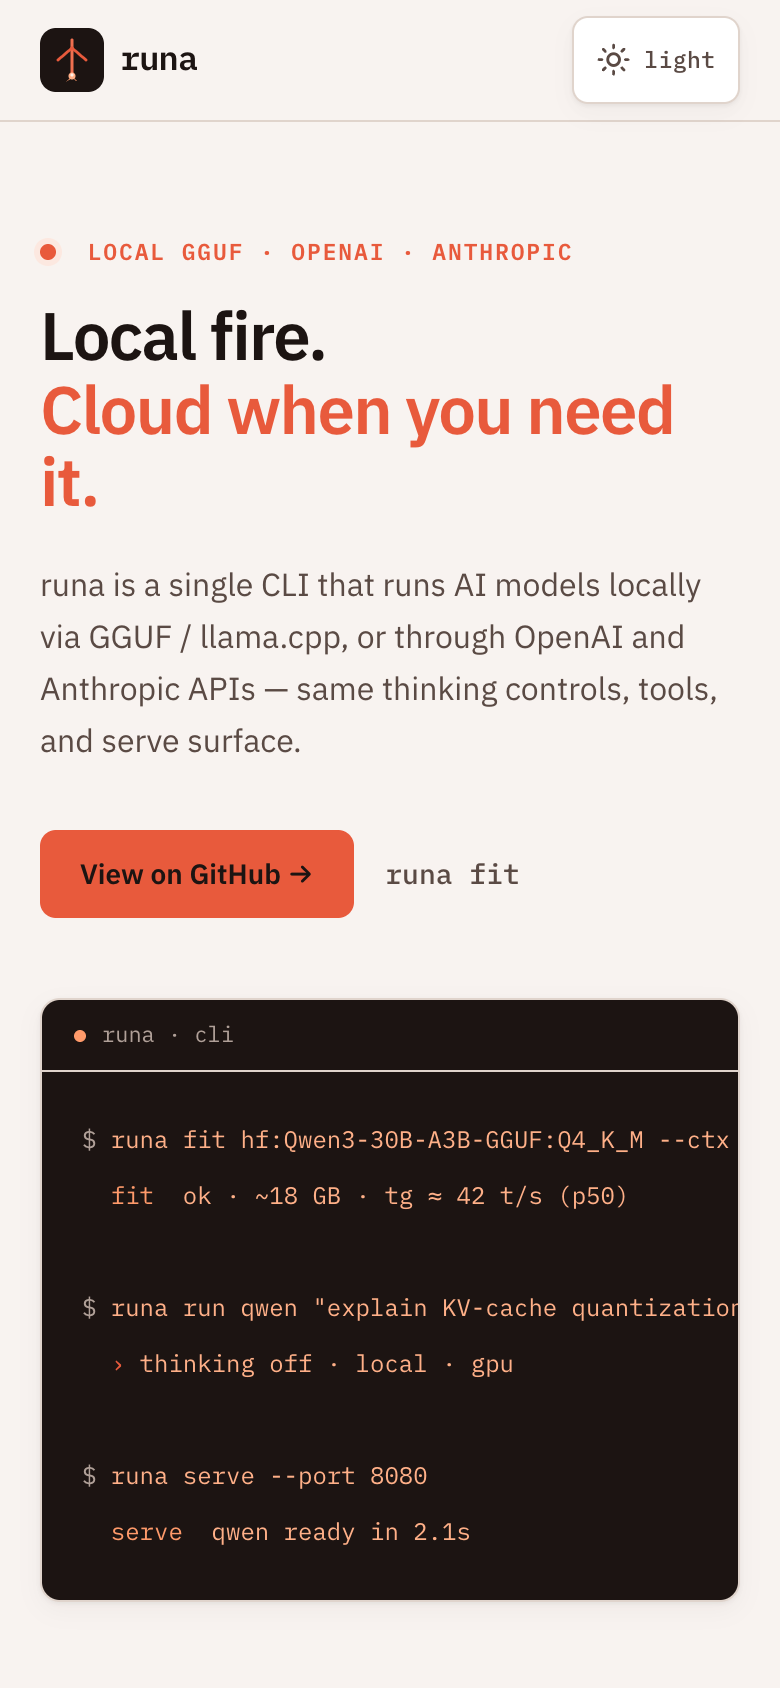
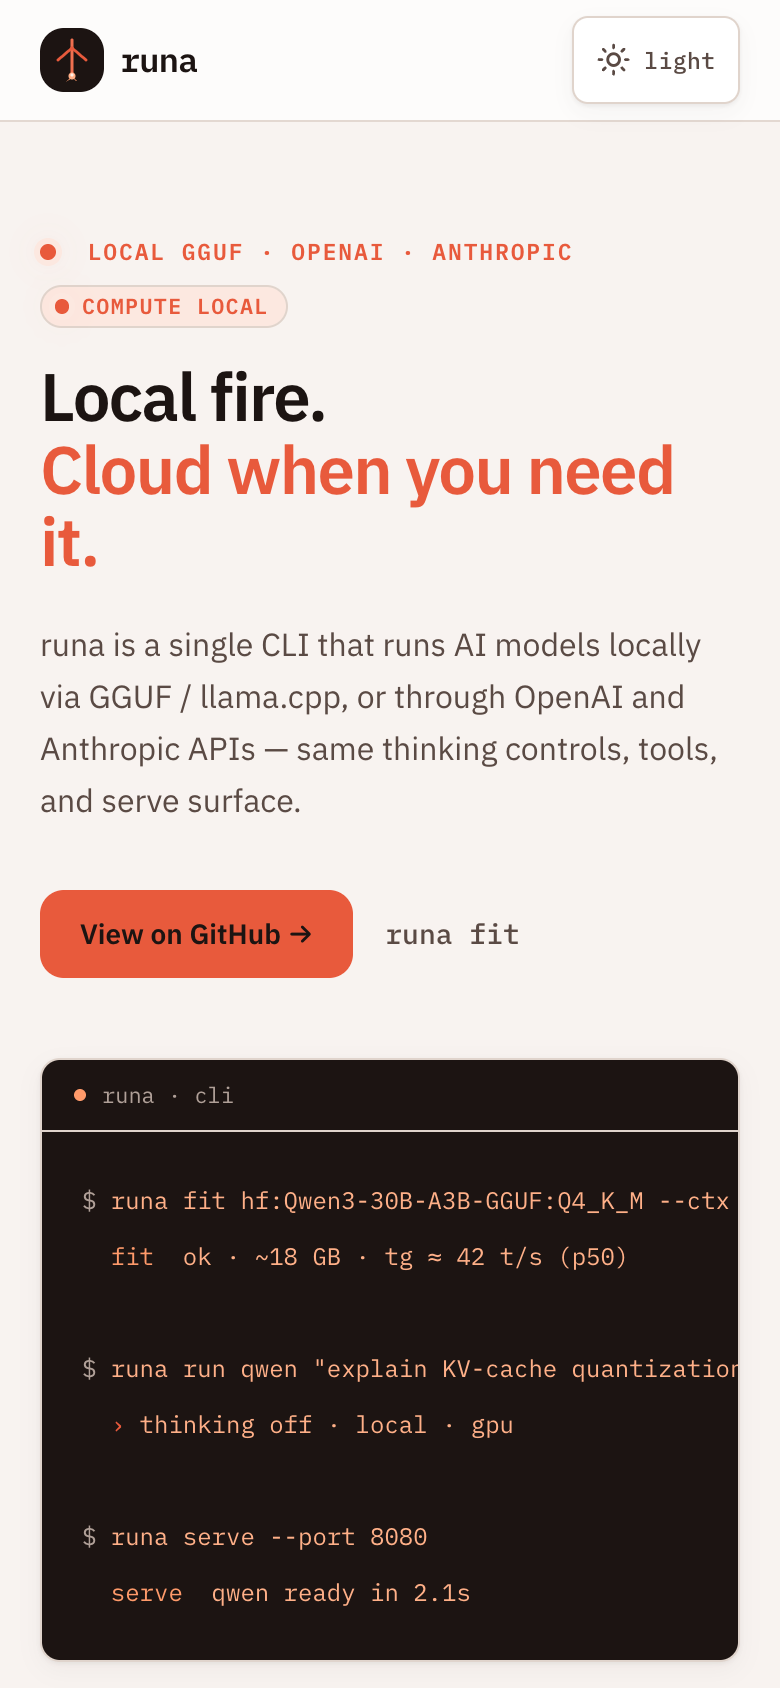
docs: landing-v1 screenshots + nerd+ai+glass+flat lock in DESIGN

diff --git a/docs/brand/tokens.css b/docs/brand/tokens.css
@@ -23,6 +23,9 @@
   --runa-code-bg: #1C1412;
   --runa-code-fg: #FFB088;
   --runa-shadow: 0 1px 2px rgba(28, 20, 18, 0.06), 0 4px 12px rgba(28, 20, 18, 0.04);
+  --runa-glass-fill: rgba(255, 255, 255, 0.72);
+  --runa-glass-border: rgba(224, 212, 204, 0.9);
+  --runa-accent-glow: 0 0 0 3px var(--runa-accent-soft), 0 0 18px rgba(232, 90, 60, 0.22);
   --runa-radius: 8px;
   --runa-radius-lg: 12px;
   --runa-font-mono: "IBM Plex Mono", "JetBrains Mono", ui-monospace, monospace;
@@ -52,4 +55,7 @@
   --runa-code-bg: #0C0908;
   --runa-code-fg: #FFB088;
   --runa-shadow: 0 1px 2px rgba(0, 0, 0, 0.35), 0 4px 16px rgba(0, 0, 0, 0.28);
+  --runa-glass-fill: rgba(28, 20, 18, 0.72);
+  --runa-glass-border: rgba(42, 34, 30, 0.9);
+  --runa-accent-glow: 0 0 0 3px var(--runa-accent-soft), 0 0 20px rgba(240, 112, 80, 0.28);
 }

diff --git a/docs/brand/DESIGN.md b/docs/brand/DESIGN.md
@@ -6,6 +6,9 @@
 
 Identity: ember coral + warm charcoal. Distinct hue family from copper bindsmith, forest cox, and indigo stator.
 
+
+**Shared visual lock (Listepo landing v1):** **nerd + ai + glass + flat** — same family as ketch brand v1. IBM Plex Mono eyebrows/labels/chips, hairline borders, mono CLI cards; subtle agent/compute cues (soft accent glow, gradient hairline, status chips) using **ember only** (no purple AI gradients); translucent glass panels with `backdrop-filter` plus opaque `@media (prefers-reduced-transparency: reduce)` fallbacks; flat CTAs, 4/8pt spacing, surface ladder, radii 8–12.
+
 ## Colors
 
 ### Light
